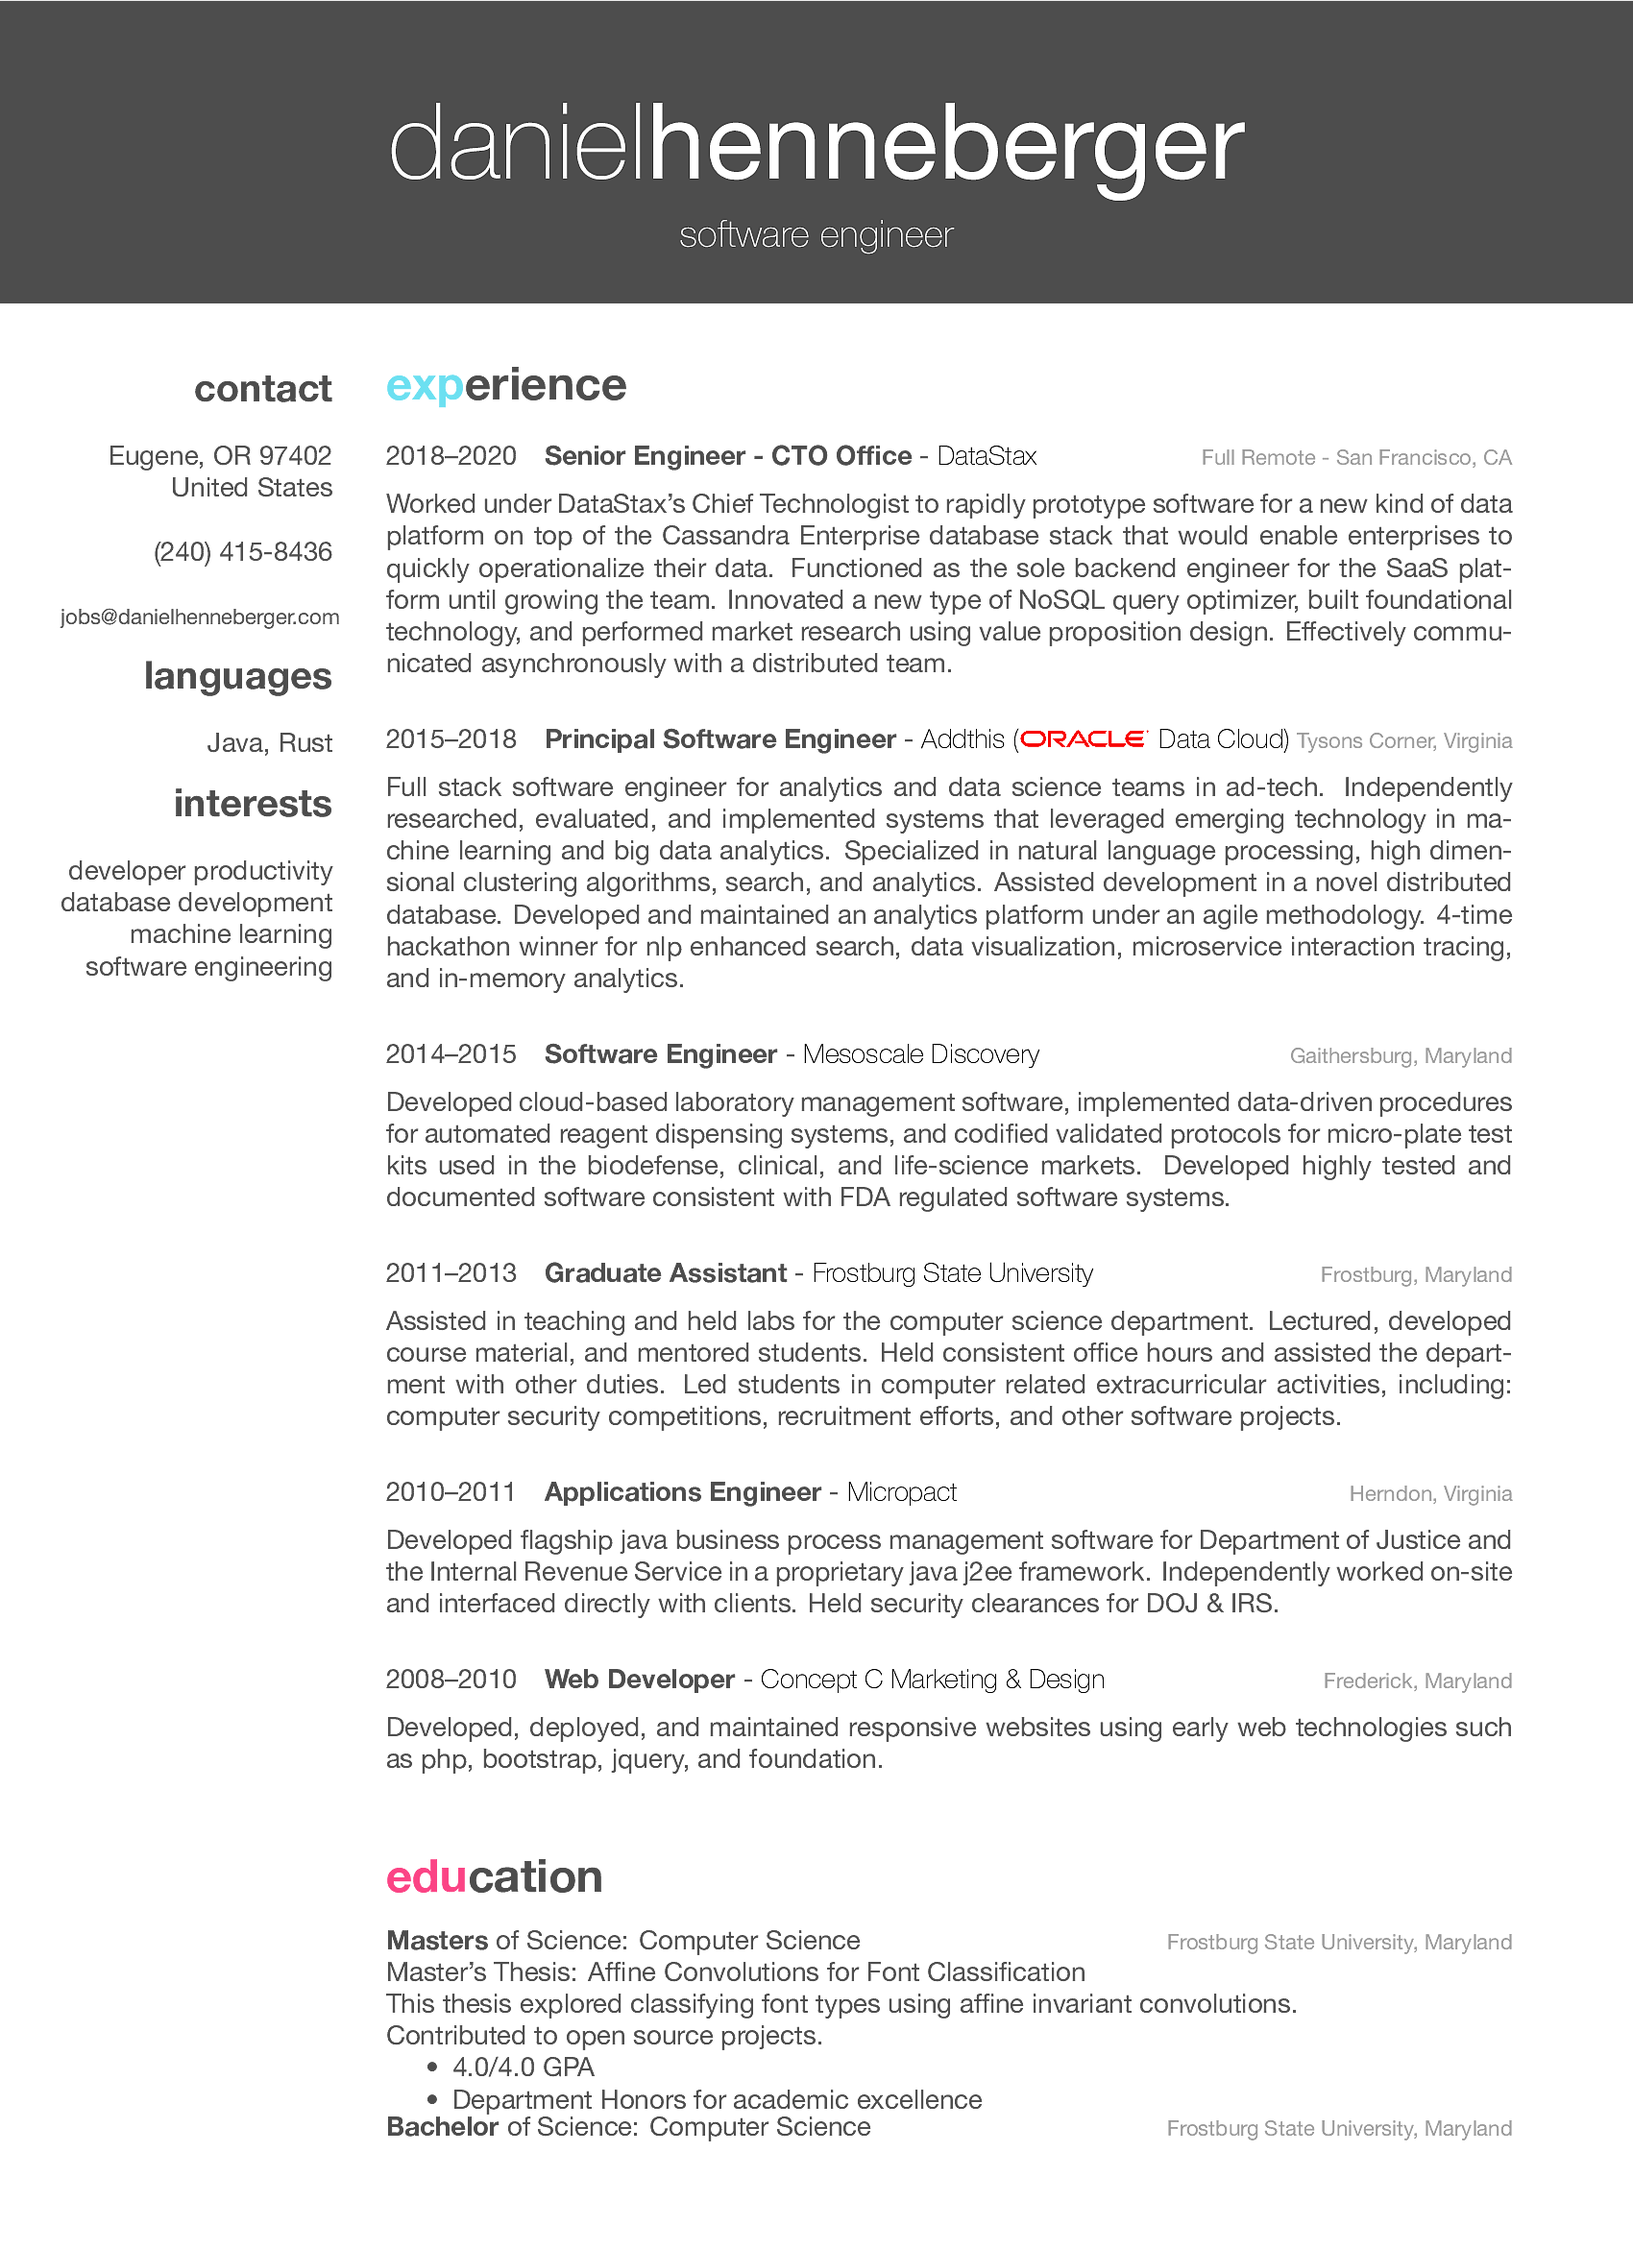
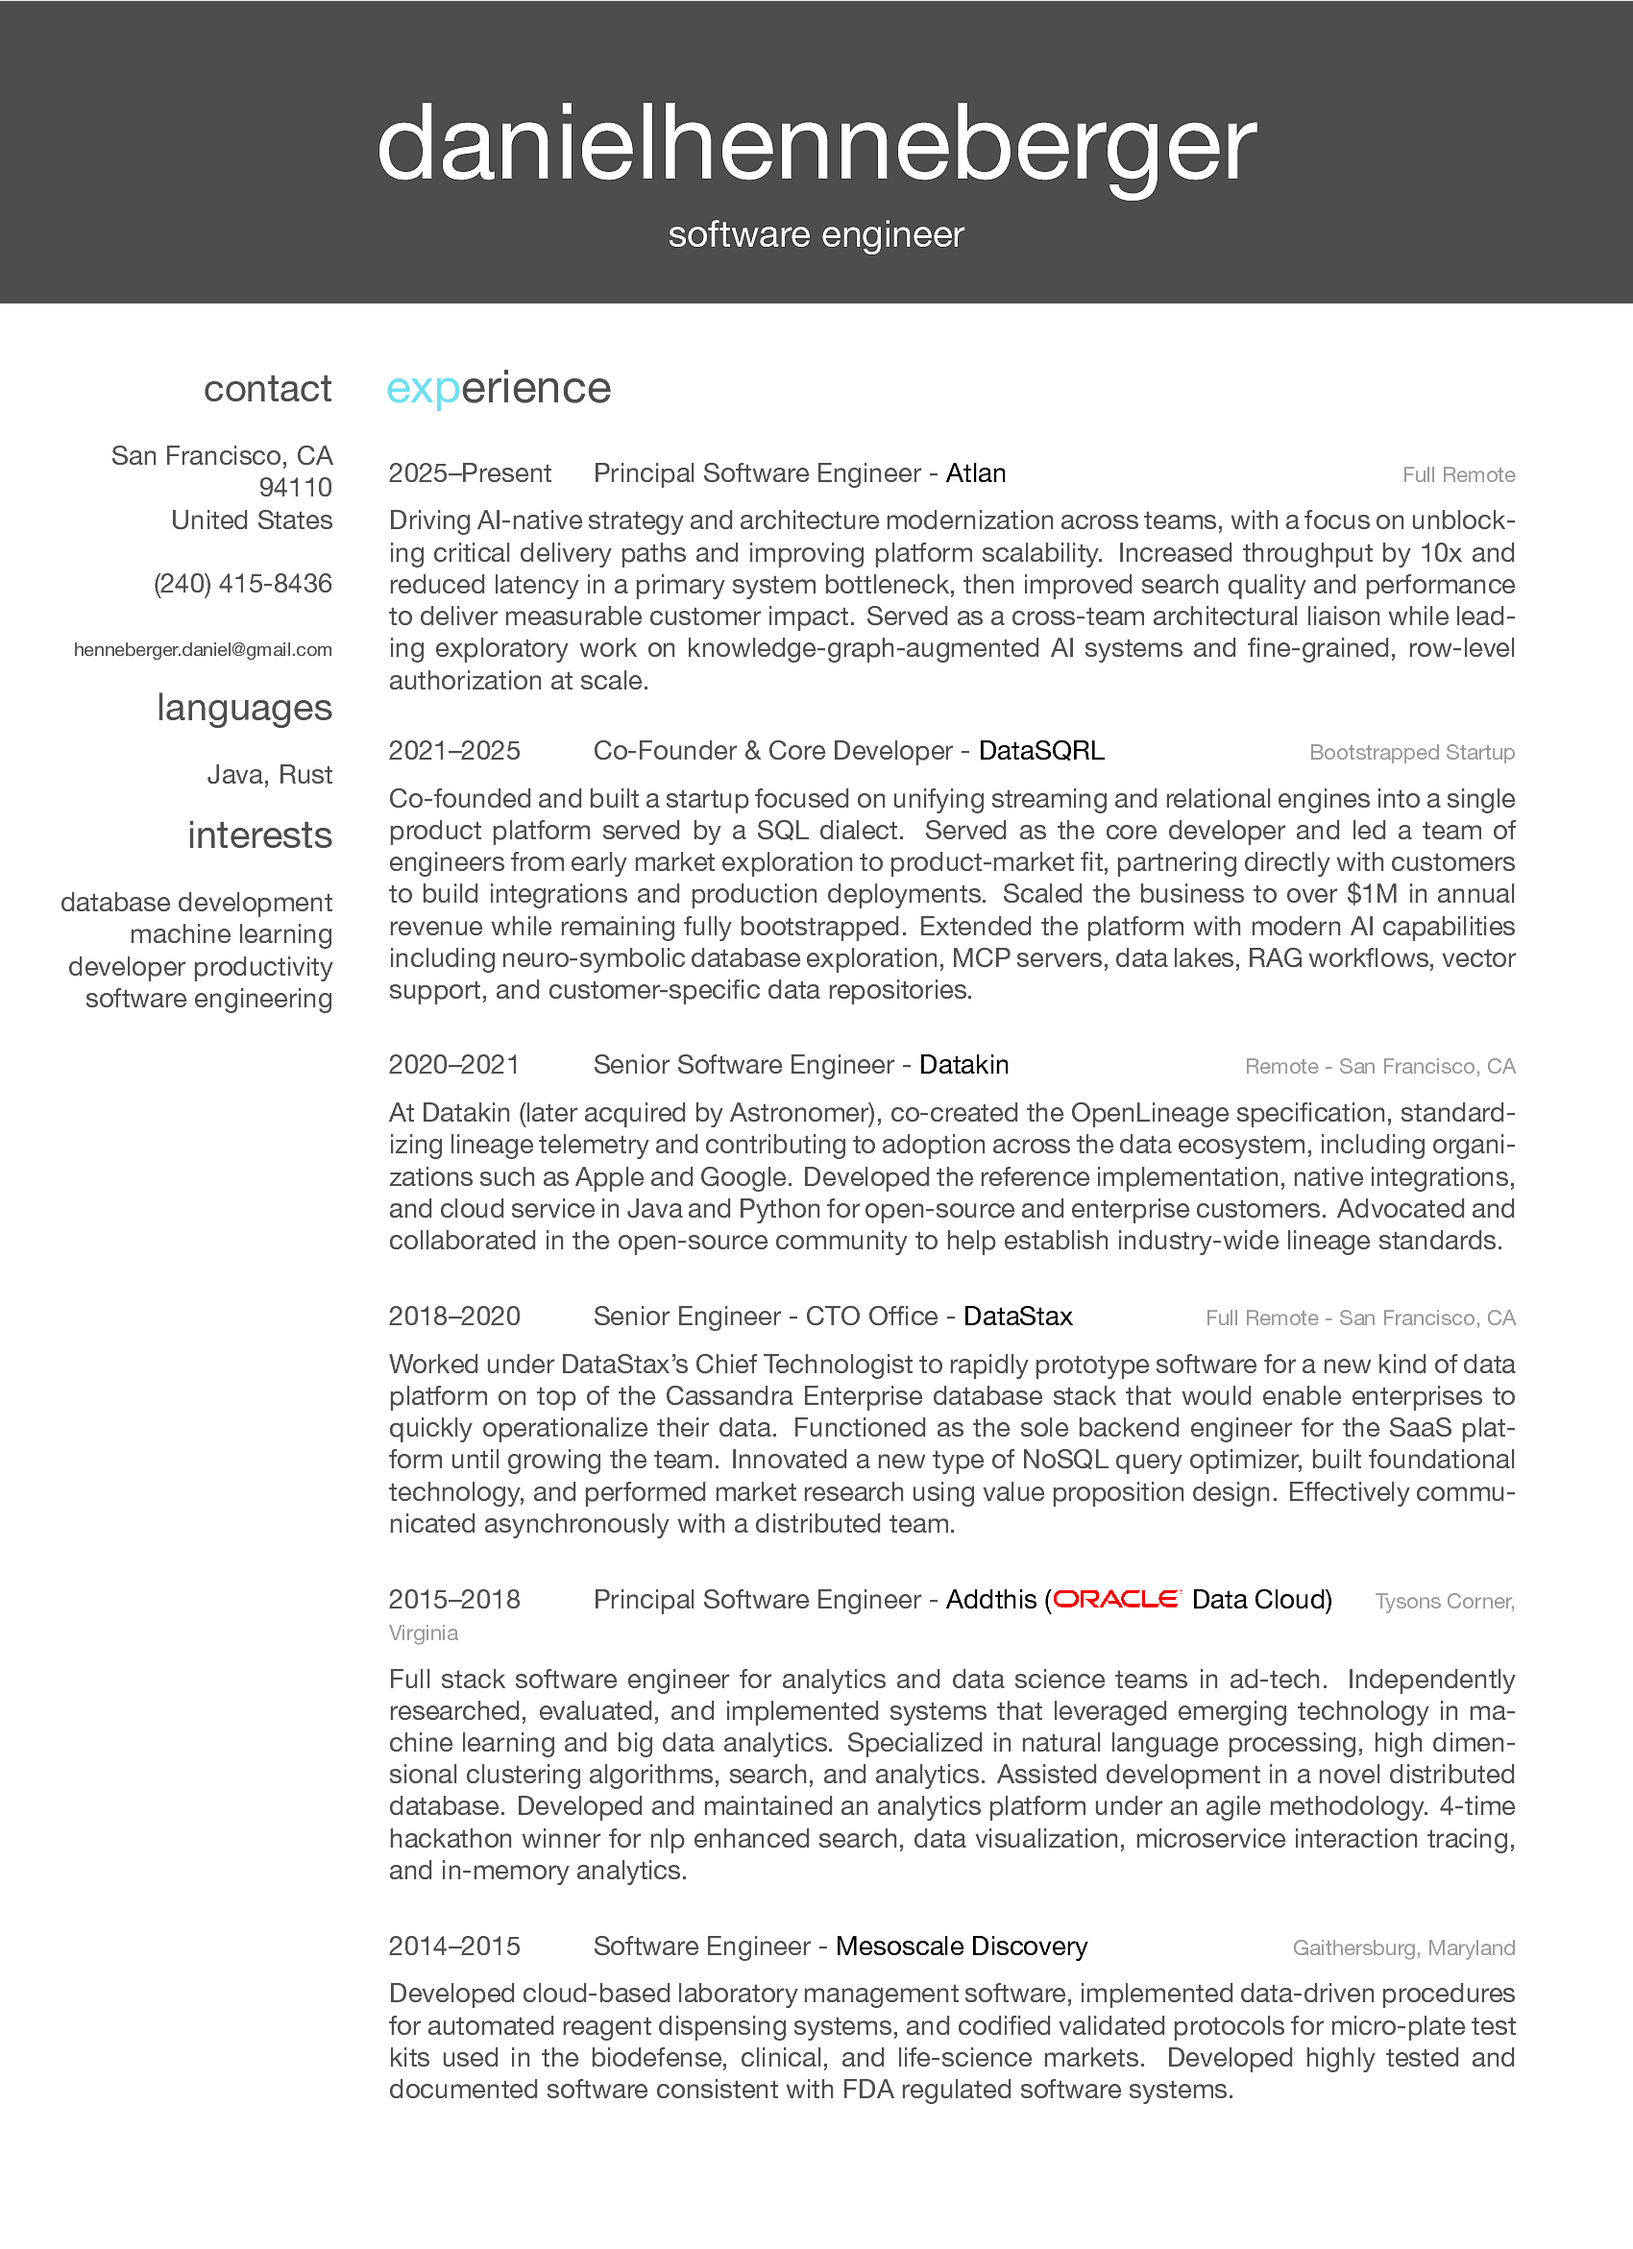
Refresh samples and update README notes

Changed region(s): [[0.0624, 0.1558, 0.9353, 0.9663], [0.2182, 0.0312, 0.7794, 0.1247], [0.8729, 0.9351, 0.9041, 0.9663]]

diff --git a/README.md b/README.md
@@ -29,7 +29,6 @@ Alternative:
 CC BY-NC-SA 3.0 (http://creativecommons.org/licenses/by-nc-sa/3.0/)
 
 ## TODO
- - The header doesn't appear on first run and takes an additional run to fix.
- - Remove hard coded Helvetica Neue font references, explore alternative OpenFonts such as roboto, lato, or raleway. Current font looks a little blurry.
- - Slim down the latex dependencies in the docker container (currently @4gb)
+ - Evaluate open font alternatives (e.g. Roboto, Lato, Raleway) and tune rendering quality.
+ - Slim down the latex dependencies in the docker container (currently large).
  - Printing looks off
